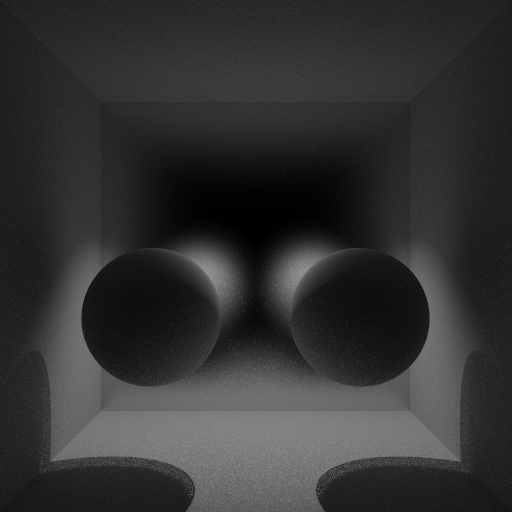
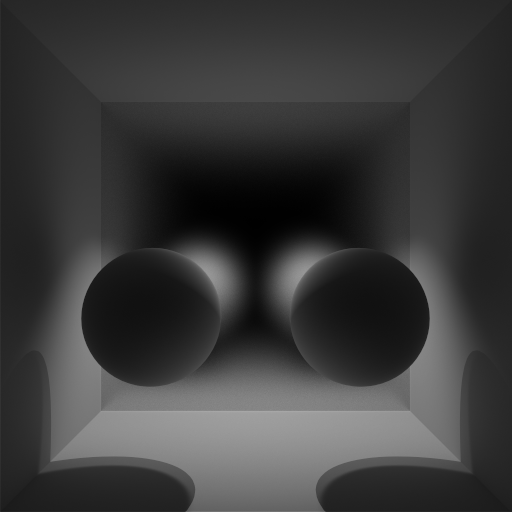
fix 227 ibpt

diff --git a/main/test_lights3.cpp b/main/test_lights3.cpp
@@ -230,7 +230,6 @@ namespace LGHT_TESTS
     initGLIfNeeded();
 
     hrErrorCallerPlace(L"test_227");
-
     hrSceneLibraryOpen(L"tests_f/test_227", HR_WRITE_DISCARD);
 
     ///////////////////////////////////////////////////////////////////////////////////////////////////////////////////////////////////
@@ -348,8 +347,26 @@ namespace LGHT_TESTS
     // Render settings
     /////////////////////////////////////////////////////////////////////////////////////////////////////////////////////////////////////////////////////
 
-    HRRenderRef renderRef = CreateBasicTestRenderPT(CURR_RENDER_DEVICE, TESTS_IMG_SIZE, TESTS_IMG_SIZE, 512, 8192);
-
+    HRRenderRef renderRef = hrRenderCreate(L"HydraModern");
+  
+    hrRenderOpen(renderRef, HR_WRITE_DISCARD);
+    {
+      auto node = hrRenderParamNode(renderRef);
+    
+      node.append_child(L"width").text()  = 512;
+      node.append_child(L"height").text() = 512;
+    
+      node.append_child(L"method_primary").text()   = L"IBPT";
+      node.append_child(L"method_secondary").text() = L"IBPT";
+      node.append_child(L"shadows").text()          = L"1";
+    
+      node.append_child(L"trace_depth").text()      = L"6";
+      node.append_child(L"diff_trace_depth").text() = L"3";
+      node.append_child(L"maxRaysPerPixel").text()  = 1024;
+      node.append_child(L"resources_path").text()   = L"..";
+      node.append_child(L"offline_pt").text()       = 0;
+    }
+    hrRenderClose(renderRef);
 
     /////////////////////////////////////////////////////////////////////////////////////////////////////////////////////////////////////////////////////
     // Create scene
@@ -435,6 +452,7 @@ namespace LGHT_TESTS
         auto pres = std::cout.precision(2);
         std::cout << "rendering progress = " << info.progress << "% \r";
         std::cout.precision(pres);
+        std::cout.flush();
 
         glfwSwapBuffers(g_window);
         glfwPollEvents();

diff --git a/main/main.cpp b/main/main.cpp
@@ -139,7 +139,7 @@ int main(int argc, const char** argv)
     //run_all_ipp_tests();
   
     //LGHT_TESTS::test_225_point_spot_simple();
-    LGHT_TESTS::test_226_area_spot_simple();
+    LGHT_TESTS::test_227_point_spot_glossy_wall();
 
     //std::cout << PP_TESTS::test301_resample()        << std::endl;
     //std::cout << PP_TESTS::test302_median()          << std::endl;
